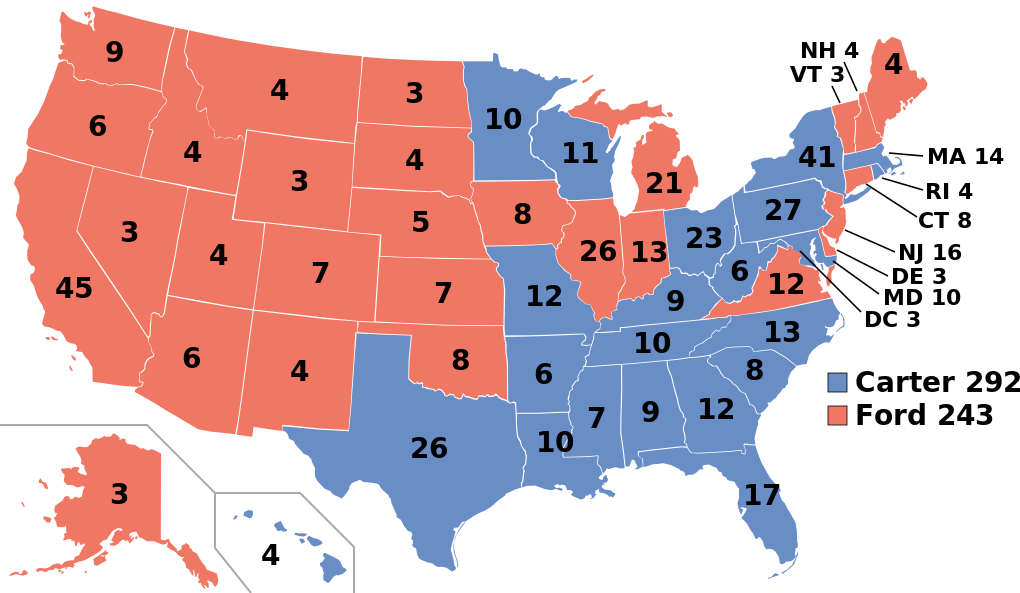
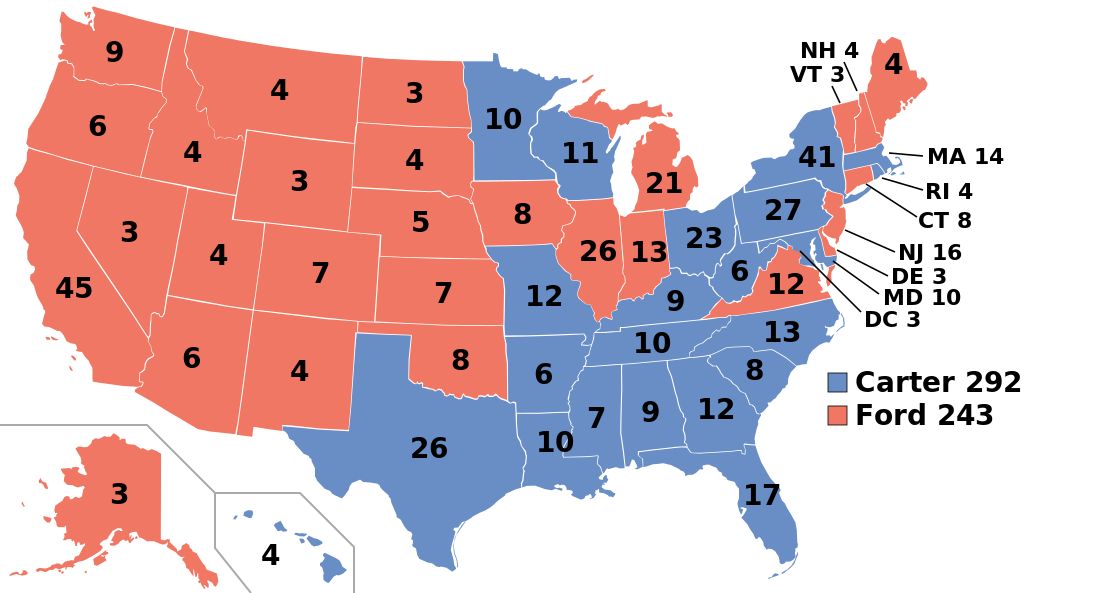
small update

diff --git a/ElectoralCollegeMakerLibrary.py b/ElectoralCollegeMakerLibrary.py
@@ -147,7 +147,7 @@ def GenerateElectoralMapByYear(electoral_year, output_to_file=True):
   state_initials = "AK,AL,AR,AZ,CA,CO,CT,DC,DE,FL,GA,HI,IA,ID,IL,IN,KS,KY,LA,MA,MD,ME,ME-2,MI,MN,MO,MS,MT,NC,ND,NE,NE-1,NE-2,NH,NJ,NM,NV,NY,OH,OK,OR,PA,RI,SC,SD,TN,TX,UT,VA,VT,WA,WI,WV,WY";
   return GenerateElectoralMap(candidate_names, candidate_short_names, candidate_colors, candidate_electoral_points, winning_candidate_states, electoral_college_points, state_initials, electoral_year, output_to_file);
  if(electoral_year=="2016"):
-  candidate_names = "Hillary Clinton,Donald Trump";
+  candidate_names = "Hillary Clinton,Donald Trump,Hillary Clinton,Donald Trump,Hillary Clinton,Donald Trump";
   candidate_short_names = "Clinton,Trump";
   candidate_colors = "#698DC5,#F07763";
   candidate_electoral_points = "0,0";
@@ -175,10 +175,6 @@ def GenerateElectoralMap(candidate_names, candidate_short_names, candidate_color
  electoral_college_points_split = [x.strip() for x in electoral_college_points.split(',')];
  electoral_college_points_split = [int(x) for x in electoral_college_points_split];
  state_initials_split = [x.strip() for x in state_initials.split(',')];
- outputsvgstring = """<?xml version=\"1.0\" encoding=\"UTF-8\" standalone=\"no\"?>
- <svg xmlns=\"http://www.w3.org/2000/svg\" width=\"1020\" height=\"593\">
-  <title>%s US presidential election results</title>
-""" % (electoral_year);
  statemapoutput = "  <g id=\"outlines\">\n";
  statetextoutput = "  <g id=\"text\" font-family=\"Helvetica Neue\" font-size=\"28\" font-weight=\"bold\">\n";
  il = 0;
@@ -428,6 +424,15 @@ def GenerateElectoralMap(candidate_names, candidate_short_names, candidate_color
   il = il + 1;
  statemapoutput = statemapoutput + "  </g>\n";
  if(len(candidate_short_names_split)==2):
+  svg_file_width = 1020;
+  long_candidate_short_name = candidate_short_names_split[0]+" "+str(candidate_electoral_points_split[0]);
+  if(len(long_candidate_short_name)<len(candidate_short_names_split[1]+" "+str(candidate_electoral_points_split[1]))):
+   long_candidate_short_name = candidate_short_names_split[1]+" "+str(candidate_electoral_points_split[1]);
+  svg_file_width = svg_file_width + ( len(long_candidate_short_name) * 10 );
+  outputsvgstring = """<?xml version=\"1.0\" encoding=\"UTF-8\" standalone=\"no\"?>
+ <svg xmlns=\"http://www.w3.org/2000/svg\" width=\"%s\" height=\"593\">
+  <title>%s US presidential election results</title>
+""" % (str(svg_file_width), electoral_year);
   statetextoutput = statetextoutput + """ <text id=\"DemL\" x=\"855\" y=\"392\">%s</text>
  <text id=\"RepL\" x=\"855\" y=\"425\">%s</text>
   </g>
@@ -437,6 +442,17 @@ def GenerateElectoralMap(candidate_names, candidate_short_names, candidate_color
  <path id=\"frames\" fill=\"none\" stroke=\"#A9A9A9\" stroke-width=\"2\" d=\"M215,493v55l36,45 M0,425h147l68,68h85l54,54v46\"/>
 </svg>""" % (candidate_short_names_split[0]+" "+str(candidate_electoral_points_split[0]), candidate_short_names_split[1]+" "+str(candidate_electoral_points_split[1]), candidate_colors_split[0], candidate_colors_split[1]);
  if(len(candidate_short_names_split)==3):
+  svg_file_width = 1020;
+  long_candidate_short_name = candidate_short_names_split[0]+" "+str(candidate_electoral_points_split[0]);
+  if(len(long_candidate_short_name)<len(candidate_short_names_split[1]+" "+str(candidate_electoral_points_split[1]))):
+   long_candidate_short_name = candidate_short_names_split[1]+" "+str(candidate_electoral_points_split[1]);
+  if(len(long_candidate_short_name)<len(candidate_short_names_split[2]+" "+str(candidate_electoral_points_split[2]))):
+   long_candidate_short_name = candidate_short_names_split[2]+" "+str(candidate_electoral_points_split[2]);
+  svg_file_width = svg_file_width + ( len(long_candidate_short_name) * 10 );
+  outputsvgstring = """<?xml version=\"1.0\" encoding=\"UTF-8\" standalone=\"no\"?>
+ <svg xmlns=\"http://www.w3.org/2000/svg\" width=\"%s\" height=\"593\">
+  <title>%s US presidential election results</title>
+""" % (str(svg_file_width), electoral_year);
   statetextoutput = statetextoutput + """   <text id=\"DemL\" x=\"855\" y=\"392\">%s</text>
    <text id=\"RepL\" x=\"855\" y=\"425\">%s</text>
    <text id=\"TrdL\" x=\"855\" y=\"458\">%s</text>
@@ -448,6 +464,19 @@ def GenerateElectoralMap(candidate_names, candidate_short_names, candidate_color
  <path id=\"frames\" fill=\"none\" stroke=\"#A9A9A9\" stroke-width=\"2\" d=\"M215,493v55l36,45 M0,425h147l68,68h85l54,54v46\"/>
 </svg>""" % (candidate_short_names_split[0]+" "+str(candidate_electoral_points_split[0]), candidate_short_names_split[1]+" "+str(candidate_electoral_points_split[1]), candidate_short_names_split[2]+" "+str(candidate_electoral_points_split[2]), candidate_colors_split[0], candidate_colors_split[1], candidate_colors_split[2]);
  if(len(candidate_short_names_split)==4):
+  svg_file_width = 1020;
+  long_candidate_short_name = candidate_short_names_split[0]+" "+str(candidate_electoral_points_split[0]);
+  if(len(long_candidate_short_name)<len(candidate_short_names_split[1]+" "+str(candidate_electoral_points_split[1]))):
+   long_candidate_short_name = candidate_short_names_split[1]+" "+str(candidate_electoral_points_split[1]);
+  if(len(long_candidate_short_name)<len(candidate_short_names_split[2]+" "+str(candidate_electoral_points_split[2]))):
+   long_candidate_short_name = candidate_short_names_split[2]+" "+str(candidate_electoral_points_split[2]);
+  if(len(long_candidate_short_name)<len(candidate_short_names_split[3]+" "+str(candidate_electoral_points_split[3]))):
+   long_candidate_short_name = candidate_short_names_split[3]+" "+str(candidate_electoral_points_split[3]);
+  svg_file_width = svg_file_width + ( len(long_candidate_short_name) * 10 );
+  outputsvgstring = """<?xml version=\"1.0\" encoding=\"UTF-8\" standalone=\"no\"?>
+ <svg xmlns=\"http://www.w3.org/2000/svg\" width=\"%s\" height=\"593\">
+  <title>%s US presidential election results</title>
+""" % (str(svg_file_width), electoral_year);
   statetextoutput = statetextoutput + """   <text id=\"DemL\" x=\"855\" y=\"392\">%s</text>
    <text id=\"RepL\" x=\"855\" y=\"425\">%s</text>
    <text id=\"TrdL\" x=\"855\" y=\"458\">%s</text>
@@ -461,6 +490,21 @@ def GenerateElectoralMap(candidate_names, candidate_short_names, candidate_color
  <path id=\"frames\" fill=\"none\" stroke=\"#A9A9A9\" stroke-width=\"2\" d=\"M215,493v55l36,45 M0,425h147l68,68h85l54,54v46\"/>
 </svg>""" % (candidate_short_names_split[0]+" "+str(candidate_electoral_points_split[0]), candidate_short_names_split[1]+" "+str(candidate_electoral_points_split[1]), candidate_short_names_split[2]+" "+str(candidate_electoral_points_split[2]), candidate_short_names_split[3]+" "+str(candidate_electoral_points_split[3]), candidate_colors_split[0], candidate_colors_split[1], candidate_colors_split[2], candidate_colors_split[3]);
  if(len(candidate_short_names_split)==5):
+  svg_file_width = 1020;
+  long_candidate_short_name = candidate_short_names_split[0]+" "+str(candidate_electoral_points_split[0]);
+  if(len(long_candidate_short_name)<len(candidate_short_names_split[1]+" "+str(candidate_electoral_points_split[1]))):
+   long_candidate_short_name = candidate_short_names_split[1]+" "+str(candidate_electoral_points_split[1]);
+  if(len(long_candidate_short_name)<len(candidate_short_names_split[2]+" "+str(candidate_electoral_points_split[2]))):
+   long_candidate_short_name = candidate_short_names_split[2]+" "+str(candidate_electoral_points_split[2]);
+  if(len(long_candidate_short_name)<len(candidate_short_names_split[3]+" "+str(candidate_electoral_points_split[3]))):
+   long_candidate_short_name = candidate_short_names_split[3]+" "+str(candidate_electoral_points_split[3]);
+  if(len(long_candidate_short_name)<len(candidate_short_names_split[4]+" "+str(candidate_electoral_points_split[4]))):
+   long_candidate_short_name = candidate_short_names_split[4]+" "+str(candidate_electoral_points_split[4]);
+  svg_file_width = svg_file_width + ( len(long_candidate_short_name) * 10 );
+  outputsvgstring = """<?xml version=\"1.0\" encoding=\"UTF-8\" standalone=\"no\"?>
+ <svg xmlns=\"http://www.w3.org/2000/svg\" width=\"%s\" height=\"593\">
+  <title>%s US presidential election results</title>
+""" % (str(svg_file_width), electoral_year);
   statetextoutput = statetextoutput + """   <text id=\"DemL\" x=\"855\" y=\"392\">%s</text>
    <text id=\"RepL\" x=\"855\" y=\"425\">%s</text>
    <text id=\"TrdL\" x=\"855\" y=\"458\">%s</text>
@@ -475,7 +519,24 @@ def GenerateElectoralMap(candidate_names, candidate_short_names, candidate_color
  <rect id=\"Fth\" x=\"828\" y=\"505\" height=\"19\" width=\"19\" fill=\"%s\" stroke=\"#000000\" stroke-width=\"0.8\"/>
  <path id=\"frames\" fill=\"none\" stroke=\"#A9A9A9\" stroke-width=\"2\" d=\"M215,493v55l36,45 M0,425h147l68,68h85l54,54v46\"/>
 </svg>""" % (candidate_short_names_split[0]+" "+str(candidate_electoral_points_split[0]), candidate_short_names_split[1]+" "+str(candidate_electoral_points_split[1]), candidate_short_names_split[2]+" "+str(candidate_electoral_points_split[2]), candidate_short_names_split[3]+" "+str(candidate_electoral_points_split[3]), candidate_short_names_split[4]+" "+str(candidate_electoral_points_split[4]), candidate_colors_split[0], candidate_colors_split[1], candidate_colors_split[2], candidate_colors_split[3], candidate_colors_split[4]);
- if(len(candidate_short_names_split)==5):
+ if(len(candidate_short_names_split)==6):
+  svg_file_width = 1020;
+  long_candidate_short_name = candidate_short_names_split[0]+" "+str(candidate_electoral_points_split[0]);
+  if(len(long_candidate_short_name)<len(candidate_short_names_split[1]+" "+str(candidate_electoral_points_split[1]))):
+   long_candidate_short_name = candidate_short_names_split[1]+" "+str(candidate_electoral_points_split[1]);
+  if(len(long_candidate_short_name)<len(candidate_short_names_split[2]+" "+str(candidate_electoral_points_split[2]))):
+   long_candidate_short_name = candidate_short_names_split[2]+" "+str(candidate_electoral_points_split[2]);
+  if(len(long_candidate_short_name)<len(candidate_short_names_split[3]+" "+str(candidate_electoral_points_split[3]))):
+   long_candidate_short_name = candidate_short_names_split[3]+" "+str(candidate_electoral_points_split[3]);
+  if(len(long_candidate_short_name)<len(candidate_short_names_split[4]+" "+str(candidate_electoral_points_split[4]))):
+   long_candidate_short_name = candidate_short_names_split[4]+" "+str(candidate_electoral_points_split[4]);
+  if(len(long_candidate_short_name)<len(candidate_short_names_split[5]+" "+str(candidate_electoral_points_split[5]))):
+   long_candidate_short_name = candidate_short_names_split[5]+" "+str(candidate_electoral_points_split[5]);
+  svg_file_width = svg_file_width + ( len(long_candidate_short_name) * 10 );
+  outputsvgstring = """<?xml version=\"1.0\" encoding=\"UTF-8\" standalone=\"no\"?>
+ <svg xmlns=\"http://www.w3.org/2000/svg\" width=\"%s\" height=\"593\">
+  <title>%s US presidential election results</title>
+""" % (str(svg_file_width), electoral_year);
   statetextoutput = statetextoutput + """   <text id=\"DemL\" x=\"855\" y=\"392\">%s</text>
    <text id=\"RepL\" x=\"855\" y=\"425\">%s</text>
    <text id=\"TrdL\" x=\"855\" y=\"458\">%s</text>
@@ -493,6 +554,26 @@ def GenerateElectoralMap(candidate_names, candidate_short_names, candidate_color
  <path id=\"frames\" fill=\"none\" stroke=\"#A9A9A9\" stroke-width=\"2\" d=\"M215,493v55l36,45 M0,425h147l68,68h85l54,54v46\"/>
 </svg>
 """ % (candidate_short_names_split[0]+" "+str(candidate_electoral_points_split[0]), candidate_short_names_split[1]+" "+str(candidate_electoral_points_split[1]), candidate_short_names_split[2]+" "+str(candidate_electoral_points_split[2]), candidate_short_names_split[3]+" "+str(candidate_electoral_points_split[3]), candidate_short_names_split[4]+" "+str(candidate_electoral_points_split[4]), candidate_short_names_split[5]+" "+str(candidate_electoral_points_split[5]), candidate_colors_split[0], candidate_colors_split[1], candidate_colors_split[2], candidate_colors_split[3], candidate_colors_split[4], candidate_colors_split[5]);
+ if(len(candidate_short_names_split)>=7):
+  svg_file_width = 1020;
+  long_candidate_short_name = candidate_short_names_split[0]+" "+str(candidate_electoral_points_split[0]);
+  if(len(long_candidate_short_name)<len(candidate_short_names_split[1]+" "+str(candidate_electoral_points_split[1]))):
+   long_candidate_short_name = candidate_short_names_split[1]+" "+str(candidate_electoral_points_split[1]);
+  if(len(long_candidate_short_name)<len(candidate_short_names_split[2]+" "+str(candidate_electoral_points_split[2]))):
+   long_candidate_short_name = candidate_short_names_split[2]+" "+str(candidate_electoral_points_split[2]);
+  if(len(long_candidate_short_name)<len(candidate_short_names_split[3]+" "+str(candidate_electoral_points_split[3]))):
+   long_candidate_short_name = candidate_short_names_split[3]+" "+str(candidate_electoral_points_split[3]);
+  if(len(long_candidate_short_name)<len(candidate_short_names_split[4]+" "+str(candidate_electoral_points_split[4]))):
+   long_candidate_short_name = candidate_short_names_split[4]+" "+str(candidate_electoral_points_split[4]);
+  if(len(long_candidate_short_name)<len(candidate_short_names_split[5]+" "+str(candidate_electoral_points_split[5]))):
+   long_candidate_short_name = candidate_short_names_split[5]+" "+str(candidate_electoral_points_split[5]);
+  if(len(long_candidate_short_name)<len(candidate_short_names_split[6]+" "+str(candidate_electoral_points_split[6]))):
+   long_candidate_short_name = candidate_short_names_split[6]+" "+str(candidate_electoral_points_split[6]);
+  svg_file_width = svg_file_width + ( len(long_candidate_short_name) * 10 );
+  outputsvgstring = """<?xml version=\"1.0\" encoding=\"UTF-8\" standalone=\"no\"?>
+ <svg xmlns=\"http://www.w3.org/2000/svg\" width=\"%s\" height=\"593\">
+  <title>%s US presidential election results</title>
+""" % (str(svg_file_width), electoral_year);
   statetextoutput = statetextoutput + """   <text id=\"DemL\" x=\"855\" y=\"392\">%s</text>
    <text id=\"RepL\" x=\"855\" y=\"425\">%s</text>
    <text id=\"TrdL\" x=\"855\" y=\"458\">%s</text>
